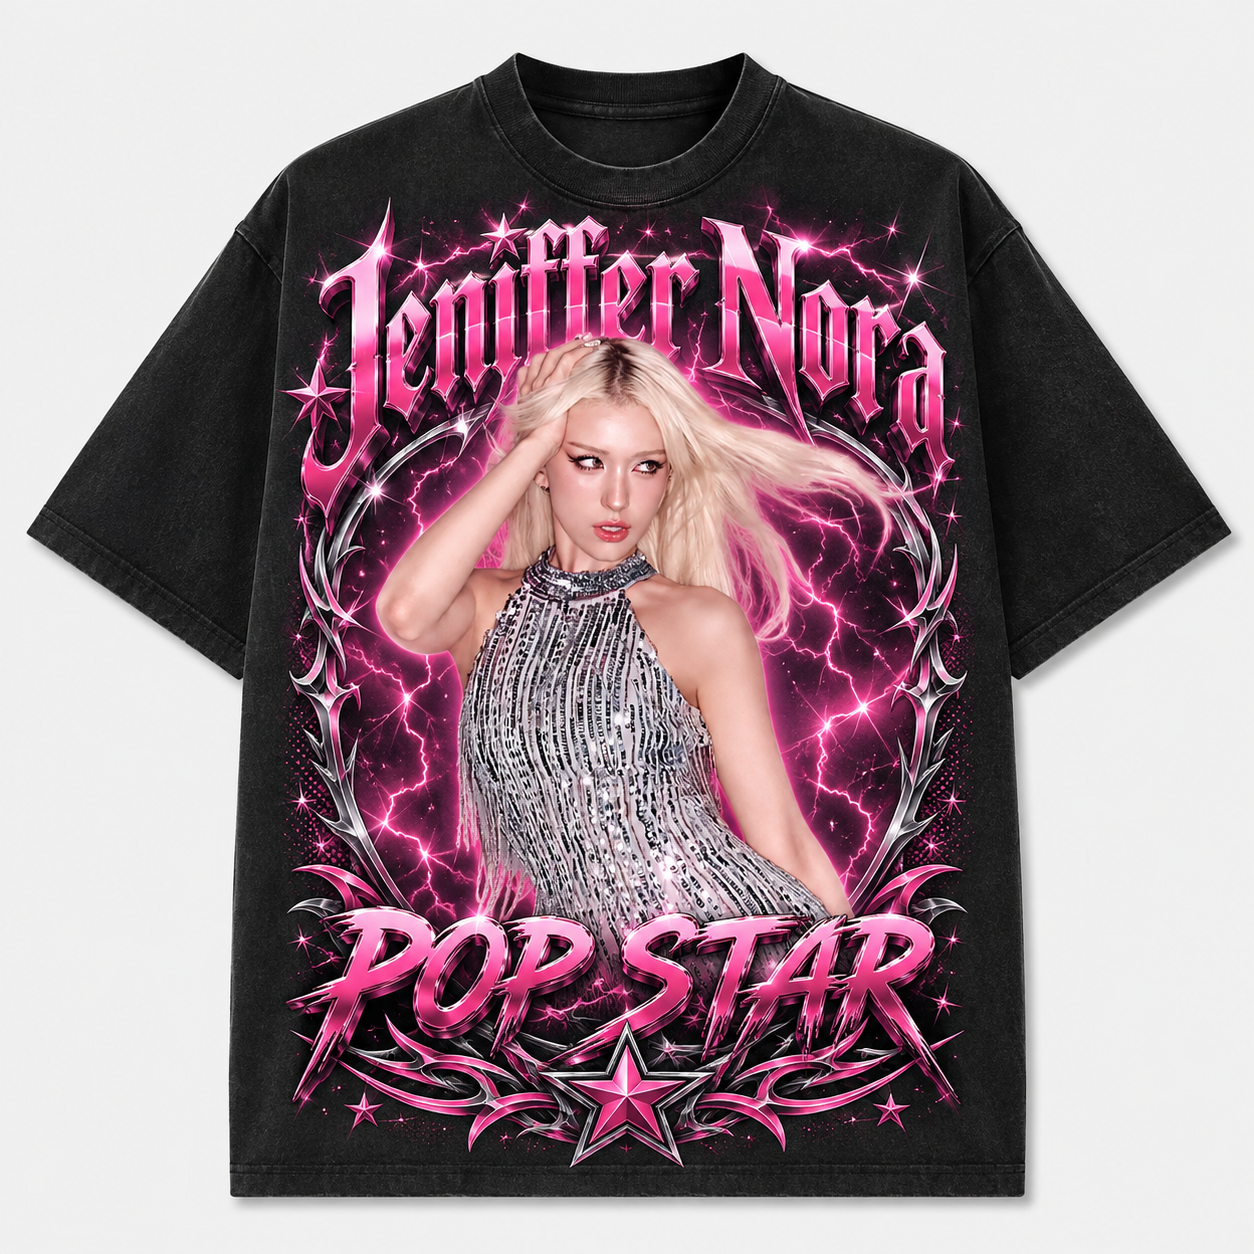
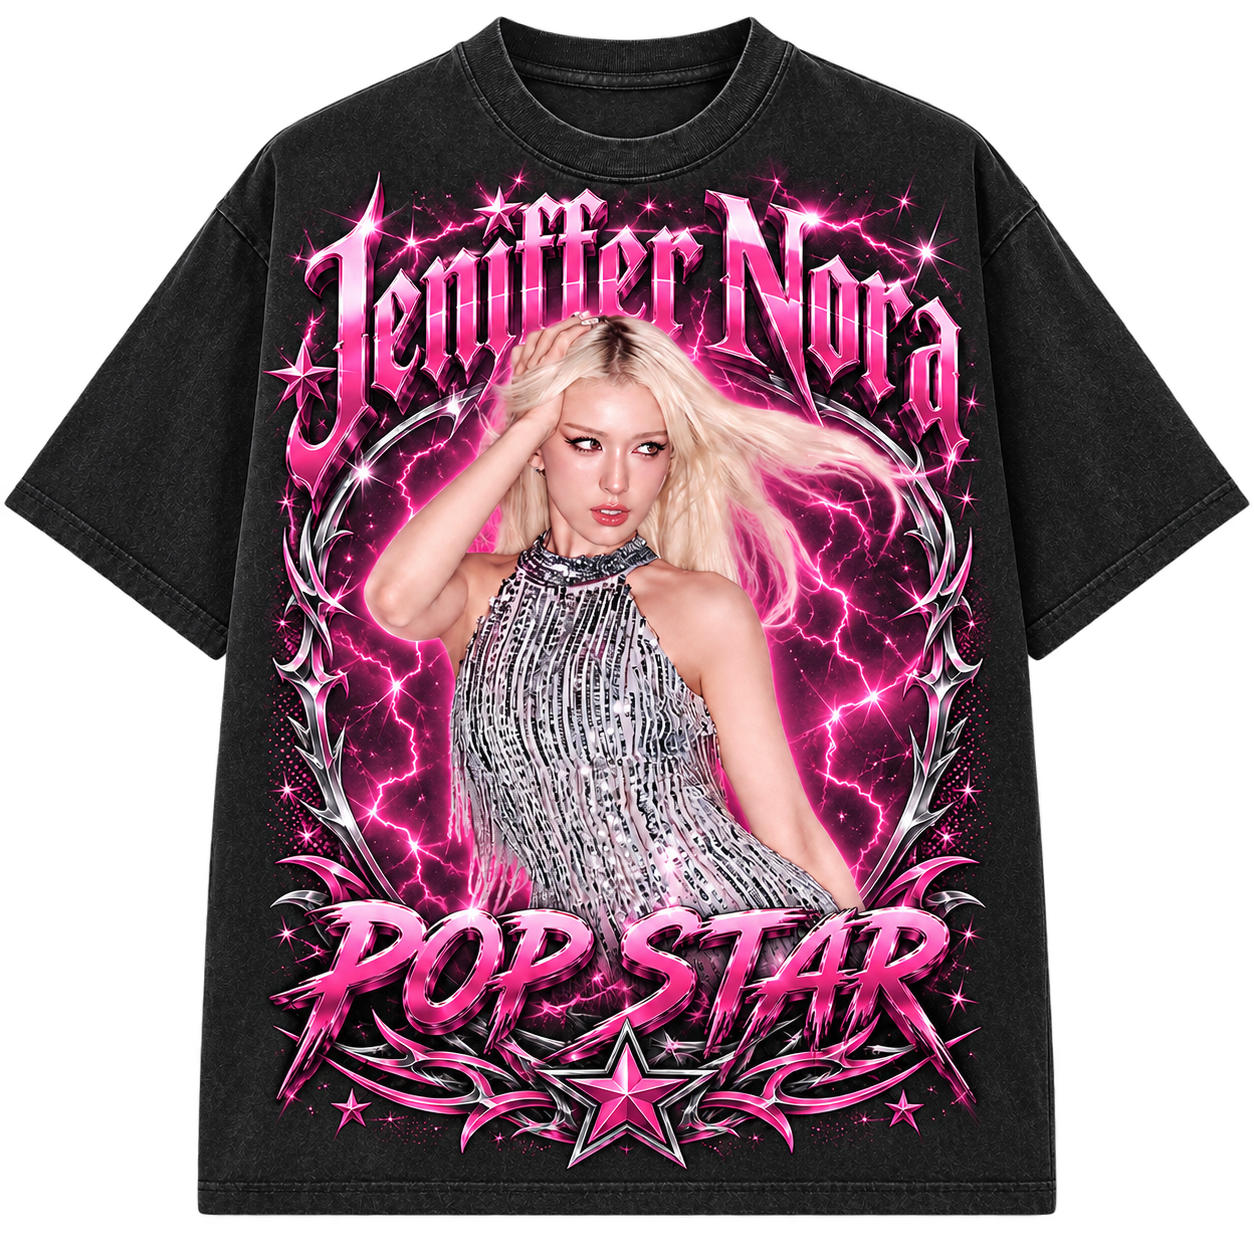
fix shop product image layout

diff --git a/css/style.css b/css/style.css
@@ -996,29 +996,34 @@ button {
     text-align: center;
 }
 
+/* =========================
+   SHOP PRODUCT IMAGE
+   CENTERED MOCKUP
+========================= */
+
 .shop-image {
-    aspect-ratio: 4 / 5;
+    width: 100%;
+    aspect-ratio: 1 / 1;
 
     display: flex;
-    justify-content: center;
     align-items: center;
+    justify-content: center;
 
     overflow: hidden;
 
-    background-color: var(--cherry-red);
-    color: var(--cream);
-
-    font-family: Georgia, "Times New Roman", serif;
-    font-size: 28px;
+    background: #a30000;
 }
 
 .shop-image img {
+    width: 88%;
+    height: 88%;
+
     display: block;
 
-    width: 100%;
-    height: 100%;
+    object-fit: contain;
+    object-position: center center;
 
-    object-fit: cover;
+    margin: auto;
 }
 
 .shop-card h3 {
